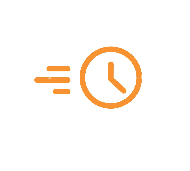
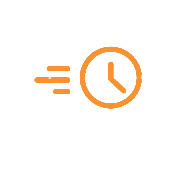
Se cambiaron imagenes en la pagina de ayuno

diff --git a/public/HTML/ayuno.html b/public/HTML/ayuno.html
@@ -56,7 +56,7 @@
 
     <div class="wrapper">
         <div class="ayuno">
-            <img src="../Media/AYUNO.PNG">
+            <img src="../Media/reloj-ayuno.jpg">
         </div>
         <div class="ventajas">
             <h1>Ventajas del Ayuno</h1>
@@ -86,14 +86,14 @@
     <div class="wrapper" id="listaAyuno">
 
         <div class="ayuno14">
-            <img src="../Media/RELOJ-removebg-preview.png" alt="">
+            <img src="../Media/RELOJ.png" alt="">
             <p>En el ayuno intermitente 14/10 ayunarás durante 14 horas y tendrás una ventana de 10 horas para comer.
                 Con el
                 ayuno 14/10 temprano te saltarás el desayuno y con el 14/10 tardío, la cena. </p>
         </div>
 
         <div class="ayuno16">
-            <img src="../Media/RELOJ-removebg-preview.png" alt="">
+            <img src="../Media/RELOJ.png" alt="">
             <p> El ayuno intermitente 16/8 temprano significa que ayunarás durante 16 horas y comerás durante 8,
                 saltándote
                 el desayuno. Se recomienda hacer 2 comidas entre las 12 del mediodía y las 8 de la tarde.
@@ -105,23 +105,23 @@
 
 
         <div class="ayuno18">
-            <img src="../Media/RELOJ-removebg-preview.png" alt="">
+            <img src="../Media/RELOJ.png" alt="">
             <p>El ayuno intermitente de 18 horas consiste en comer por un periodo de 6 horas y abstenerse del consumo de
                 alimentos por 18 horas. Se cree que este método, en caso de aplicarse diariamente, sugiere una forma de
                 evitar ganar peso y reducir el riesgo de cáncer, diabetes y enfermedades cardiacas</p>
         </div>
 
         <div class="ayuno20">
-            <img src="../Media/RELOJ-removebg-preview.png" alt="">
+            <img src="../Media/RELOJ.png" alt="">
             <p>Las personas que siguen esta pauta hacen un 'ayuno' durante 20 horas al día y luego una comida grande en
                 una
                 ventana de ingesta de 4 horas, normalmente por la tarde/noche.</p>
         </div>
     </div>
     <div class="metrica">
-        <img src="../Media/METRICA.jpg">
+        <img src="../Media/Ayuno-39.png">
     </div>
-
+  
     <!-- Footer(info de empresa) -->
     <div class="capa-footer1">
         <div class="wrapper">
